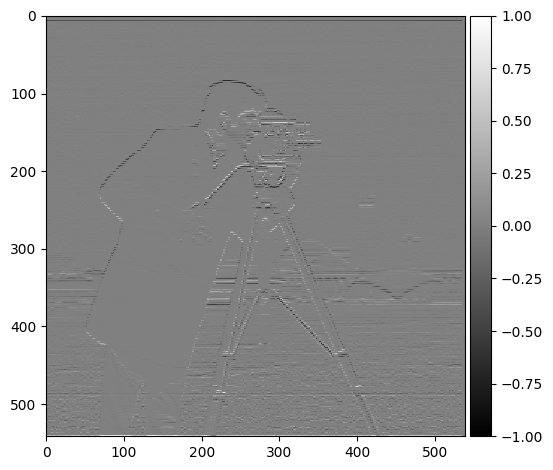
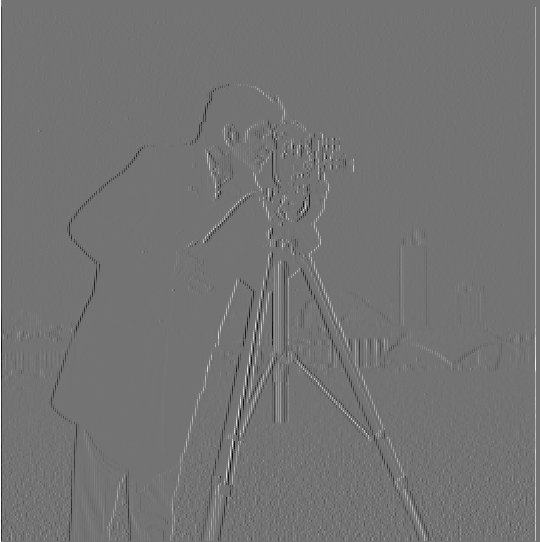
finish 1.2

diff --git a/2/index.html b/2/index.html
@@ -49,33 +49,34 @@
             display: block;
         }
 
-        .image-container {
-            display: flex;
-            justify-content: space-between;
-            align-items: center;
-        }
+    .image-container img {
+        width: 100%;
+        height: auto;
+    }
 
-        .image-container img {
-            max-width: 100%;
-            /* Adjust the width as needed */
-            height: auto;
-        }
+    .image-container figure {
+        margin: 0 1px;
+        width: 150px;
+        text-align: center;
+        display: inline-block;
+        vertical-align: top; 
+    }
 
-        figure {
-            margin: 0;
-            width: 100%;
-            /* Adjust the width as needed */
-            text-align: center;
-        }
+    .image-container {
+        display: flex;
+        justify-content: center;
+        align-items: flex-start; 
+    }
+
 
         figcaption {
-            margin-top: 8px;
+            margin-top: 0px;
             font-style: italic;
         }
 
         .caption {
-            padding: 10px;
-            font-size: 16px;
+            padding: 5px;
+            font-size: 15px;
             color: #333;
             background-color: #f4f4f4;
         }
@@ -87,7 +88,6 @@
             right: 10px;
             /* Adjust as needed */
             background-color: #ffffff;
-            /* White background */
             border: 1px solid #ddd;
             border-radius: 5px;
             padding: 10px;
@@ -95,13 +95,12 @@
             font-size: 14px;
             color: #333;
             max-width: 200px;
-            /* Adjust width as needed */
             text-align: left;
         }
 
         pre {
             background-color: #f4f4f4;
-            padding: 10px;
+            padding: 5px;
             border-radius: 5px;
             overflow-x: auto;
         }
@@ -109,14 +108,12 @@
         @media (min-width: 768px) {
             .gallery-item {
                 width: 300px;
-                /* Set width of each image container */
             }
         }
 
         @media (max-width: 768px) {
             .gallery-item {
                 width: 100%;
-                /* Full width on small screens */
             }
         }
     </style>
@@ -153,16 +150,62 @@
             <figcaption>$$ C_y $$</figcaption>
         </figure>
         <figure>
-            <img src="images/Gm.png" alt="Gradient(mag)">
+            <img src="images/gradient_mag.png" alt="Gradient(mag)">
             <figcaption>$$ G_m $$</figcaption>
         </figure>
         <figure>
-            <img src="images/edge.png" alt="First Image">
+            <img src="images/edges.png" alt="First Image">
             <figcaption>$$ G_e $$ </figcaption>
         </figure>
     </div>
     </p>
-
+    <h3>Derivative of Gaussian (DoG) Filter</h3>
+    We noted that the results with just the difference operator were rather noisy. Luckily, we have a smoothing operator handy: the Gaussian filter G. Here, I create a blurred version of the original image by convolving with a Gaussian (width=5 and SD=1) and repeat the procedure in the previous part.
+    <p>
+        <div class="image-container">
+            <figure>
+                <img src="images/deriv_x_b.png" alt="Derivative X">
+                <figcaption>$$ C_x $$</figcaption>
+            </figure>
+            <figure>
+                <img src="images/deriv_y_b.png" alt="Derivative Y">
+                <figcaption>$$ C_y $$</figcaption>
+            </figure>
+            <figure>
+                <img src="images/gradient_mag_b.png" alt="Gradient(mag)">
+                <figcaption>$$ G_m $$</figcaption>
+            </figure>
+            <figure>
+                <img src="images/edges_b.png" alt="First Image">
+                <figcaption>$$ G_e $$ </figcaption>
+            </figure>
+        </div>
+        Much less noisy! Derivatives are much stronger, which results in a clearer and thicker final edge detection.
+        <br>
+        <br>Now we can do the same thing with a single convolution instead of two by creating a derivative of gaussian filters.
+        </p>
+        $$ G_x = \frac{d}{dx} G, \quad G_y = \frac{d}{dy} G $$
+        <p>
+            <div class="image-container">
+                <figure>
+                    <img src="images/Gx.png" alt="Derivative X">
+                    <figcaption>$$ G_x $$</figcaption>
+                </figure>
+                <figure>
+                    <img src="images/Gy.png" alt="Derivative Y">
+                    <figcaption>$$ G_y $$</figcaption>
+                </figure>
+                <figure>
+                    <img src="images/gradient_mag_b2.png" alt="Gradient(mag)">
+                    <figcaption>$$ G_m $$</figcaption>
+                </figure>
+                <figure>
+                    <img src="images/edges_b2.png" alt="First Image">
+                    <figcaption>$$ G_e $$ </figcaption>
+                </figure>
+            </div>
+            They are the same! Except now we saved one operation...
+            </p>
 </body>
 
 </html>

diff --git a/index.html b/index.html
@@ -69,9 +69,13 @@
     <div class="gallery">
         <a href="./1/index.html" class="gallery-item">
             <img src="cover_images/proj1_cover.jpg" alt="Project 1 Cover">
-            <div class="caption"><strong>Project 1</div>
+            <div class="caption"><strong>Project 1</strong></div>
         </a>
-        <!-- Add more projects as needed -->
+
+        <a href="./2/index.html" class="gallery-item">
+            <img src="cover_images/proj2_cover.jpg" alt="Project 2 Cover">
+            <div class="caption"><strong>Project 2</strong></div>
+        </a>
     </div>
 </body>
 </html>
